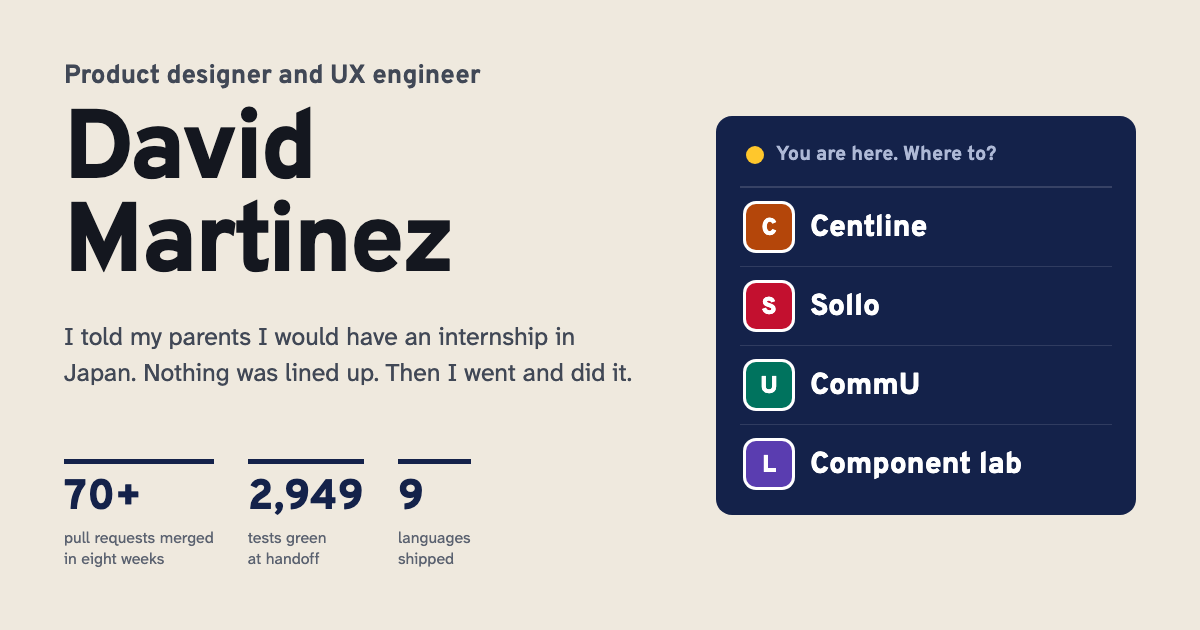
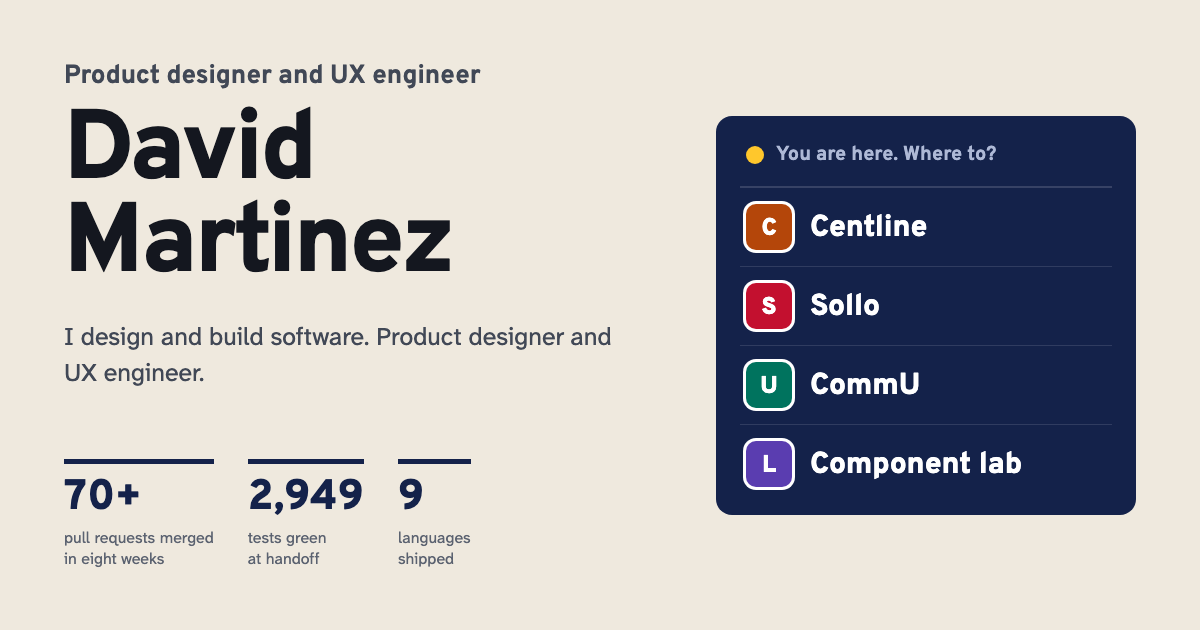
Open the page the way the post opens
The headline is "I design and build software." now, the line we settled on for
LinkedIn, so the site and the post say the same thing in the same words. The
share card and the link previews follow, and the hero is back at full size now
it is one short line. The Japan story is still on the Sollo page, in my words.

Claude-Session: https://claude.ai/code/session_019dxoiVdc8rSzgbRHkQpCUH

Changed region(s): [[0.0308, 0.5127, 0.5242, 0.6032]]

diff --git a/index.html b/index.html
@@ -11,7 +11,7 @@
 <meta property="og:site_name" content="David Martinez">
 <meta property="og:locale" content="en_US">
 <meta property="og:title" content="David Martinez &middot; Product designer and UX engineer">
-<meta property="og:description" content="I told my parents I would have an internship in Japan. Nothing was lined up. Then I went and did it. Product designer and UX engineer, informatics (HCI) at Iowa, most recently UI/UX engineering at Sollo in Tokyo.">
+<meta property="og:description" content="I design and build software. Product designer and UX engineer, informatics (HCI) at the University of Iowa, most recently UI/UX engineering at Sollo in Tokyo.">
 <meta property="og:url" content="https://portfolio.centline.co/">
 
 <!-- Share card, 1200x630. LinkedIn renders 1.91:1, so this must never point at a phone
@@ -25,7 +25,7 @@
 
 <meta name="twitter:card" content="summary_large_image">
 <meta name="twitter:title" content="David Martinez &middot; Product designer and UX engineer">
-<meta name="twitter:description" content="I told my parents I would have an internship in Japan. Nothing was lined up. Then I went and did it. Product designer and UX engineer, informatics (HCI) at Iowa, most recently UI/UX engineering at Sollo in Tokyo.">
+<meta name="twitter:description" content="I design and build software. Product designer and UX engineer, informatics (HCI) at the University of Iowa, most recently UI/UX engineering at Sollo in Tokyo.">
 <meta name="twitter:image" content="https://portfolio.centline.co/assets/og/share-card.png">
 <meta name="theme-color" content="#EFE9DE">
 
@@ -68,7 +68,7 @@
 </figure>
       <p>Hi, I&rsquo;m David.</p>
     </div>
-    <h1 class="hero__h">I told my parents I would have an internship in Japan. Nothing was lined up. Then I went and did it.</h1>
+    <h1 class="hero__h">I design and build software.</h1>
     <p class="hero__p">
       Product designer and UX engineer, studying informatics and human-computer interaction
       at the University of Iowa. Most recently <strong>UI/UX engineering at Sollo in

diff --git a/contact/index.html b/contact/index.html
@@ -11,7 +11,7 @@
 <meta property="og:site_name" content="David Martinez">
 <meta property="og:locale" content="en_US">
 <meta property="og:title" content="David Martinez &middot; Product designer and UX engineer">
-<meta property="og:description" content="I told my parents I would have an internship in Japan. Nothing was lined up. Then I went and did it. Product designer and UX engineer, informatics (HCI) at Iowa, most recently UI/UX engineering at Sollo in Tokyo.">
+<meta property="og:description" content="I design and build software. Product designer and UX engineer, informatics (HCI) at the University of Iowa, most recently UI/UX engineering at Sollo in Tokyo.">
 <meta property="og:url" content="https://portfolio.centline.co/contact/">
 
 <!-- Share card, 1200x630. LinkedIn renders 1.91:1, so this must never point at a phone
@@ -25,7 +25,7 @@
 
 <meta name="twitter:card" content="summary_large_image">
 <meta name="twitter:title" content="David Martinez &middot; Product designer and UX engineer">
-<meta name="twitter:description" content="I told my parents I would have an internship in Japan. Nothing was lined up. Then I went and did it. Product designer and UX engineer, informatics (HCI) at Iowa, most recently UI/UX engineering at Sollo in Tokyo.">
+<meta name="twitter:description" content="I design and build software. Product designer and UX engineer, informatics (HCI) at the University of Iowa, most recently UI/UX engineering at Sollo in Tokyo.">
 <meta name="twitter:image" content="https://portfolio.centline.co/assets/og/share-card.png">
 <meta name="theme-color" content="#EFE9DE">
 

diff --git a/about/index.html b/about/index.html
@@ -11,7 +11,7 @@
 <meta property="og:site_name" content="David Martinez">
 <meta property="og:locale" content="en_US">
 <meta property="og:title" content="David Martinez &middot; Product designer and UX engineer">
-<meta property="og:description" content="I told my parents I would have an internship in Japan. Nothing was lined up. Then I went and did it. Product designer and UX engineer, informatics (HCI) at Iowa, most recently UI/UX engineering at Sollo in Tokyo.">
+<meta property="og:description" content="I design and build software. Product designer and UX engineer, informatics (HCI) at the University of Iowa, most recently UI/UX engineering at Sollo in Tokyo.">
 <meta property="og:url" content="https://portfolio.centline.co/about/">
 
 <!-- Share card, 1200x630. LinkedIn renders 1.91:1, so this must never point at a phone
@@ -25,7 +25,7 @@
 
 <meta name="twitter:card" content="summary_large_image">
 <meta name="twitter:title" content="David Martinez &middot; Product designer and UX engineer">
-<meta name="twitter:description" content="I told my parents I would have an internship in Japan. Nothing was lined up. Then I went and did it. Product designer and UX engineer, informatics (HCI) at Iowa, most recently UI/UX engineering at Sollo in Tokyo.">
+<meta name="twitter:description" content="I design and build software. Product designer and UX engineer, informatics (HCI) at the University of Iowa, most recently UI/UX engineering at Sollo in Tokyo.">
 <meta name="twitter:image" content="https://portfolio.centline.co/assets/og/share-card.png">
 <meta name="theme-color" content="#EFE9DE">
 

diff --git a/work/index.html b/work/index.html
@@ -11,7 +11,7 @@
 <meta property="og:site_name" content="David Martinez">
 <meta property="og:locale" content="en_US">
 <meta property="og:title" content="David Martinez &middot; Product designer and UX engineer">
-<meta property="og:description" content="I told my parents I would have an internship in Japan. Nothing was lined up. Then I went and did it. Product designer and UX engineer, informatics (HCI) at Iowa, most recently UI/UX engineering at Sollo in Tokyo.">
+<meta property="og:description" content="I design and build software. Product designer and UX engineer, informatics (HCI) at the University of Iowa, most recently UI/UX engineering at Sollo in Tokyo.">
 <meta property="og:url" content="https://portfolio.centline.co/work/">
 
 <!-- Share card, 1200x630. LinkedIn renders 1.91:1, so this must never point at a phone
@@ -25,7 +25,7 @@
 
 <meta name="twitter:card" content="summary_large_image">
 <meta name="twitter:title" content="David Martinez &middot; Product designer and UX engineer">
-<meta name="twitter:description" content="I told my parents I would have an internship in Japan. Nothing was lined up. Then I went and did it. Product designer and UX engineer, informatics (HCI) at Iowa, most recently UI/UX engineering at Sollo in Tokyo.">
+<meta name="twitter:description" content="I design and build software. Product designer and UX engineer, informatics (HCI) at the University of Iowa, most recently UI/UX engineering at Sollo in Tokyo.">
 <meta name="twitter:image" content="https://portfolio.centline.co/assets/og/share-card.png">
 <meta name="theme-color" content="#EFE9DE">
 

diff --git a/styles.css b/styles.css
@@ -234,10 +234,9 @@ a:hover{ text-decoration-thickness:2px; }
   color:var(--ink-2); margin:0 0 .7rem;
 }
 .hero__h{
-  /* the headline is three sentences now, so it sets a little smaller and
-     balances its lines rather than running six deep */
-  font-size:clamp(1.95rem,3.8vw,3rem); line-height:1.07; letter-spacing:-.02em;
-  margin:0 0 1.5rem; text-wrap:balance; max-width:20ch;
+  /* back to full size now the headline is one short line again */
+  font-size:clamp(2.25rem,4.6vw,3.6rem); line-height:1.05; letter-spacing:-.025em;
+  margin:0 0 1.5rem; text-wrap:balance;
 }
 .hero__p{
   font-size:clamp(1.05rem,1.8vw,1.18rem); line-height:1.62;

diff --git a/tools/og-card.html b/tools/og-card.html
@@ -73,7 +73,7 @@ h1{
   <div class="left">
     <p class="role">Product designer and UX engineer</p>
     <h1>David<br>Martinez</h1>
-    <p class="thesis">I told my parents I would have an internship in Japan. Nothing was lined up. Then I went and did it.</p>
+    <p class="thesis">I design and build software. Product designer and UX engineer.</p>
     <div class="nums">
       <div><b>70+</b><span>pull requests merged<br>in eight weeks</span></div>
       <div><b>2,949</b><span>tests green<br>at handoff</span></div>
